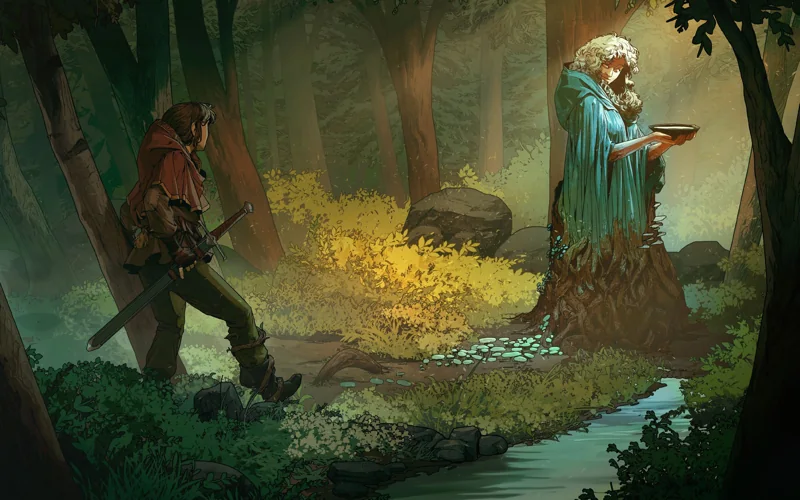
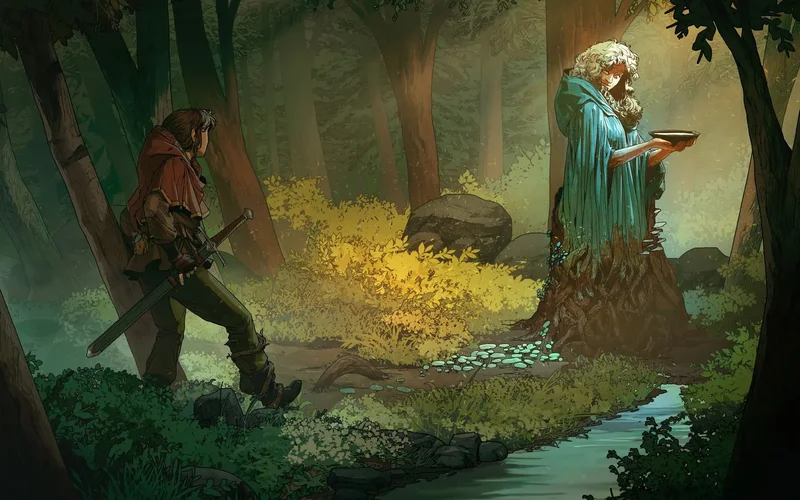
Legend Startseite: Bildausschnitt Wake höher, neues Bild für Regeln

diff --git a/sw.js b/sw.js
@@ -1,6 +1,6 @@
 // Offline-Cache. Bei jeder Änderung an index.html die Version erhöhen,
 // damit installierte Apps die neue Fassung laden.
-const VERSION = "v1453sq";
+const VERSION = "v1454sq";
 // Ein dauerhafter Cache über alle Versionen: Dateien werden nicht bei jeder neuen
 // Version komplett neu geladen, sondern einzeln im Hintergrund abgeglichen.
 const CACHE = "erzaehler-tafel-dateien";
